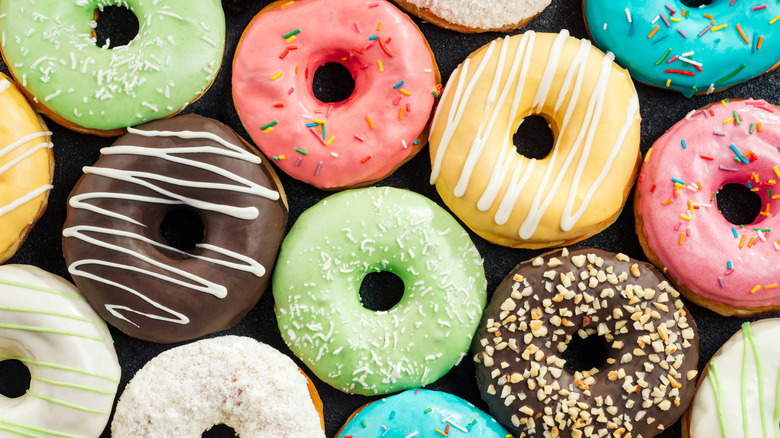
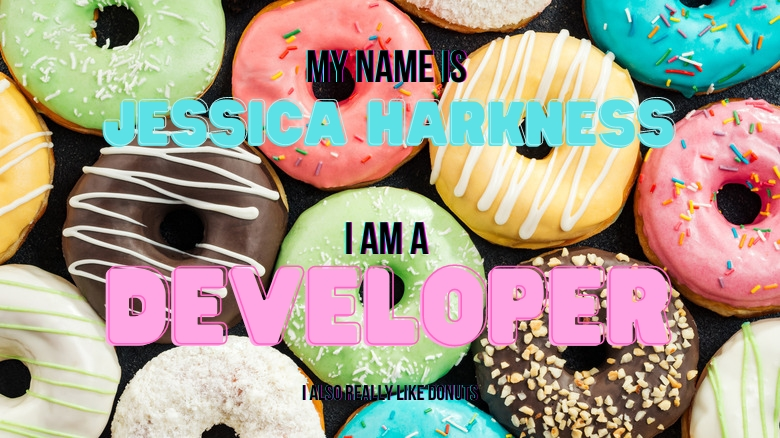
jan2

diff --git a/index.html b/index.html
@@ -30,7 +30,7 @@
       <img src="assets/donuts.jpeg" alt="Donuts" class="main-img"/>
 
       <div class="bio" id="bio"> 
-        <h2 class="bio-title">About Me</h2>
+        <h2 class="bio-title">Jessica Harkness | Developer</h2>
         <p class="bio-text">
           Lorem ipsum dolor sit amet. Sed consequatur distinctio qui quia
            cumque vel rerum dolores eos obcaecati voluptatem quo nesciunt 
@@ -84,7 +84,7 @@
   </section>
 
   <!-- Footer & Contact Information -->
-  
+
     <footer>     
       <p>Jessica Harkness | 2023</p>
     </footer>
